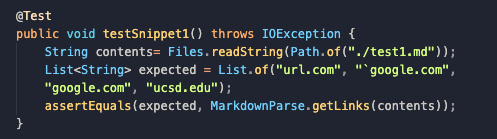
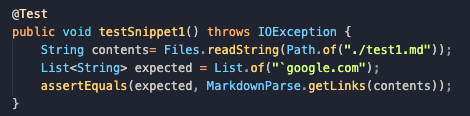
lab4 finish

Changed region(s): [[0.0298, 0.181, 0.983, 0.8276], [0.0, 0.0776, 0.1191, 0.181], [0.0298, 0.8276, 0.0596, 0.931]]

diff --git a/lab-report-4-week-8.md b/lab-report-4-week-8.md
@@ -14,7 +14,11 @@
 
 * ![lab4_test1](lab4_test1.png)
 
-* the test passed both for my implementation and group implementation
+* ![lab4_testMy1](lab4_testMy1.png)
+
+* ![lab4_testGroup1](lab4_testGroup1.png)
+
+* This issue should be able to be fixed with a few lines of codes that pairs the backticks in each line and ignore their index when parsing for URLs.
 
 ## Snippet 2
 
